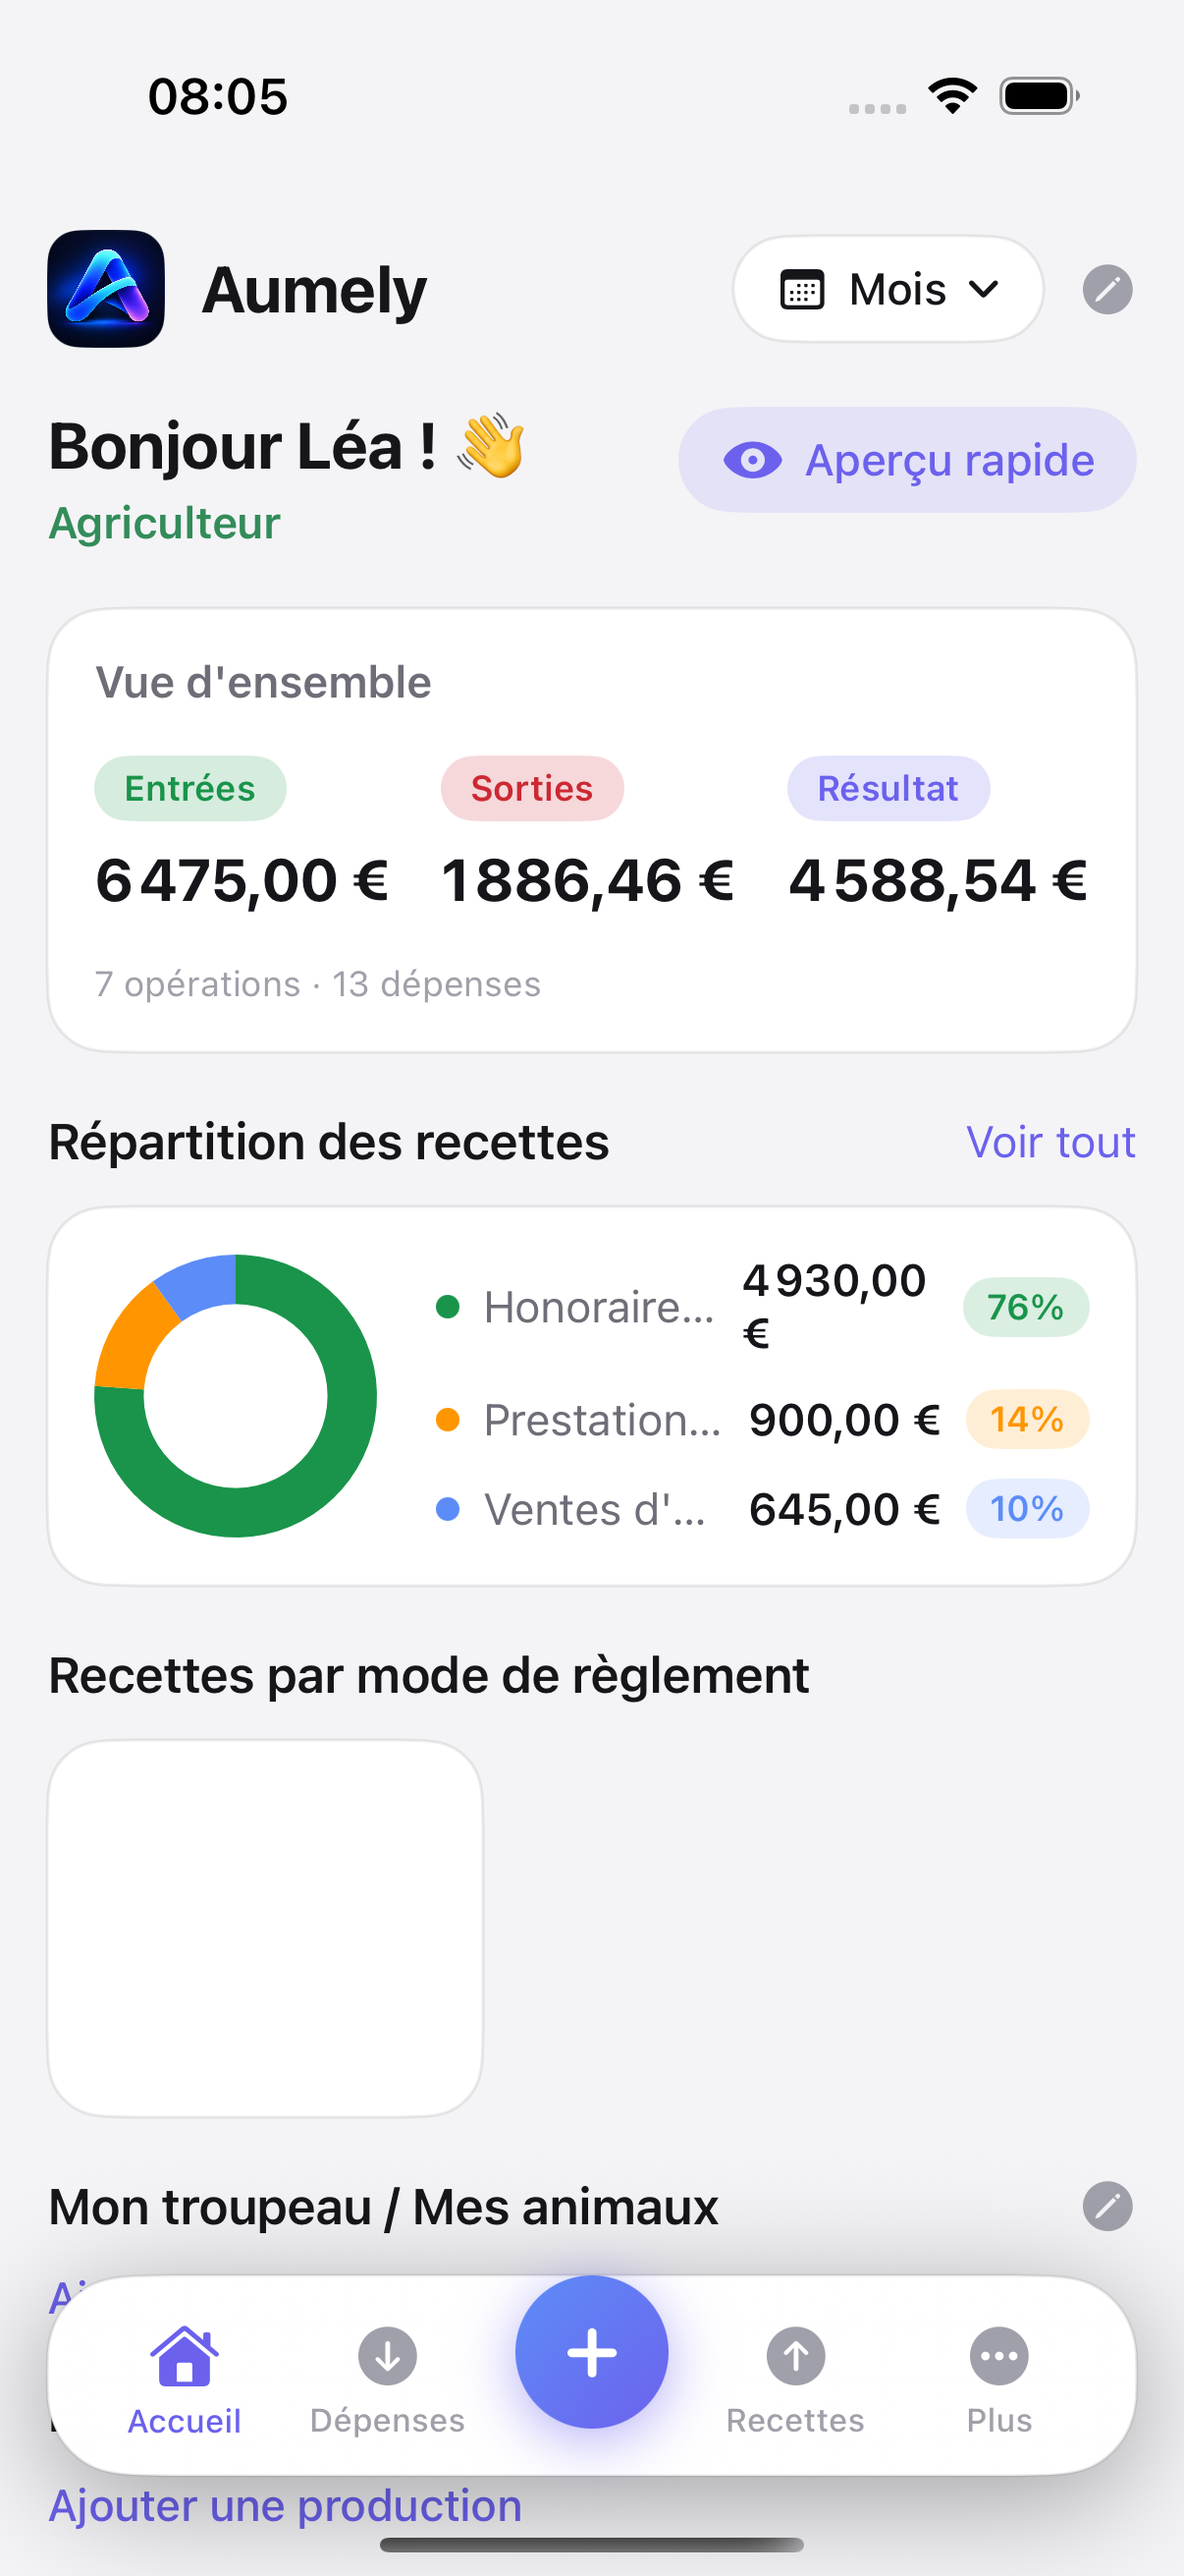
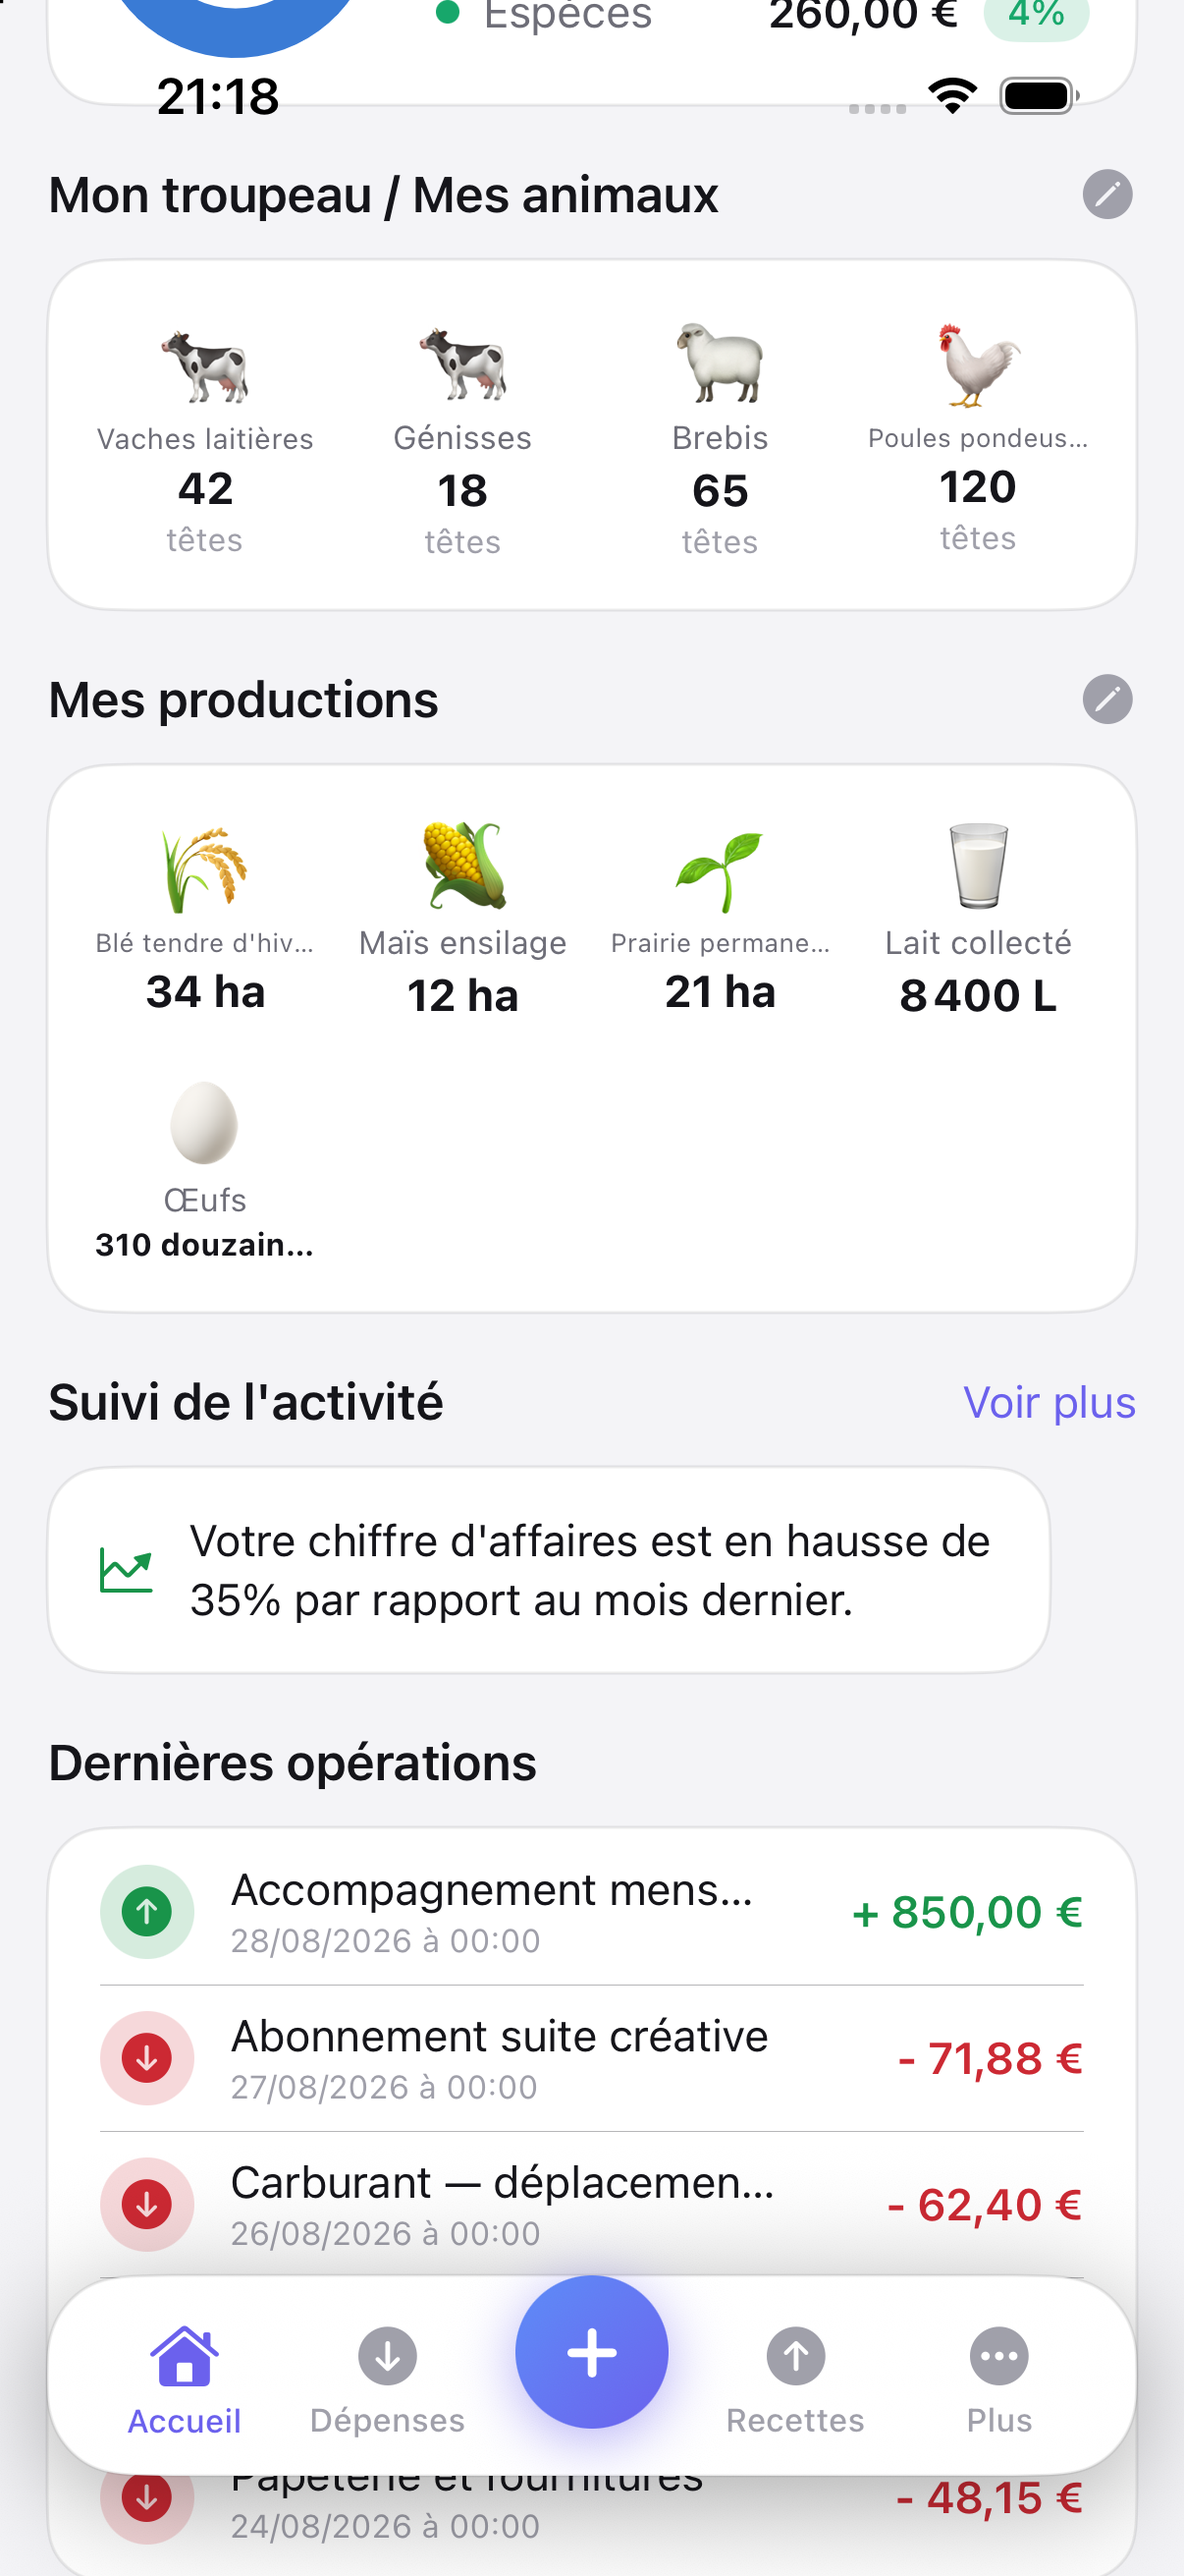
Agriculture : une capture qui montre enfin le troupeau et les productions
L'accueil agricole affiche « Mon troupeau / Mes animaux » et « Mes
productions » — deux rubriques que l'ancienne capture montrait VIDES,
avec pour tout contenu un lien « Ajouter un animal ». La section
« Votre metier » promettait donc une adaptation que l'image ne
prouvait pas.

La nouvelle capture vient du jeu de demonstration de l'application,
complete pour l'occasion : un troupeau (vaches laitieres, genisses,
brebis, poules) et des productions (ble tendre, mais, prairie, lait,
oeufs). Meme appareil, meme format (1206 x 2622) que les autres.

diff --git a/index.html b/index.html
@@ -265,7 +265,7 @@
               <picture>
                 <source srcset="assets/img/profil-agricole.webp" type="image/webp">
                 <img class="screen" data-step="3" src="assets/img/profil-agricole.png"
-                     alt="Accueil d'Aumely réglé sur le profil Agriculteur : répartition des recettes, troupeau et productions."
+                     alt="Accueil d'Aumely réglé sur le profil Agriculteur : le troupeau (vaches laitières, génisses, brebis, poules) et les productions (blé tendre, maïs, prairie, lait, œufs) suivis à côté des recettes."
                      width="1206" height="2622" loading="lazy" decoding="async">
               </picture>
             </div>
